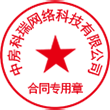
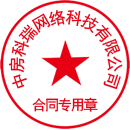
增加130圆章

diff --git a/src/pages/setting/contraPreview.vue b/src/pages/setting/contraPreview.vue
@@ -48,7 +48,12 @@
                     <el-table-column align="center" label="输入格式" min-width="150">
                         <template slot-scope="scope">
                              <!-- {{content[scope.$index]+'1'}} -->
-                            <el-select v-model="scope.row.inputType" :class="content[scope.$index]!==0?disabled:''">
+                            <el-select v-model="scope.row.inputType" v-if="content[scope.$index]==0">
+                                <el-option :value=2 label="下拉框" v-show="content[scope.$index]==0"></el-option>
+                                <el-option :value=1 label="输入框" v-show="content[scope.$index]==0"></el-option>
+                                <el-option :value=3 label="复选框" disabled v-show="content[scope.$index]!==0"></el-option>
+                            </el-select>
+                            <el-select v-model="scope.row.inputType" v-else disabled>
                                 <el-option :value=2 label="下拉框" v-show="content[scope.$index]==0"></el-option>
                                 <el-option :value=1 label="输入框" v-show="content[scope.$index]==0"></el-option>
                                 <el-option :value=3 label="复选框" disabled v-show="content[scope.$index]!==0"></el-option>
@@ -173,7 +178,6 @@ export default{
                            this.total=res.data.data.img.count
                            this.signPositions=res.data.data.signPosition
                            console.log(this.signPosition,'signPosition');
-                           ///////////////
                            this.sigtureShow=false
                            for(let i=0;i<this.signPositions.length;i++){
                             if(this.count==this.signPositions[i].pageIndex){
@@ -324,11 +328,11 @@ export default{
                 }).catch(
                     error=>{
                     this.$message({
+                    type: 'error',
                     message:error
                     })
                     this.modalDialog=true
-                }
-                 
+                 }
                 )
             },
             numSave(){
@@ -349,7 +353,7 @@ export default{
                             if(this.tableDate[i].options==''){
                                 this.$message({
                                 type: 'error',
-                                message: `选项值不能为空`
+                                message: `复选框选项值不能为空`
                                 })
                                 this.modalDialog=true
                                 break
